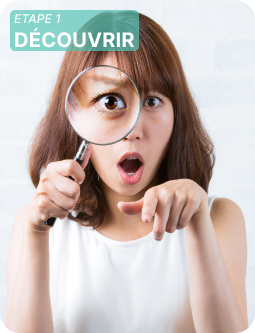
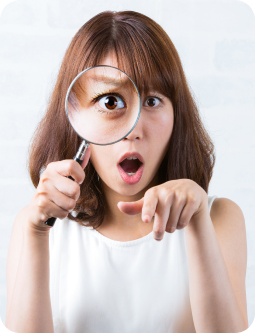
finish home page

Changed region(s): [[0.0275, 0.03, 0.549, 0.1502]]

diff --git a/resources/css/app.css b/resources/css/app.css
@@ -7,7 +7,14 @@
 }
 
 section {
-    @apply max-w-7xl mx-auto grid grid-cols-1 gap-4 py-10;
+    @apply max-w-7xl mx-auto grid grid-cols-1 gap-4 py-10 md:px-5 lg:px-10;
+}
+
+.bg_icon{
+    background-image: url('../../public/img/bg_icon_2.png') ;
+    background-repeat: no-repeat;
+    background-position: center;
+    background-size: cover;
 }
 
 /* ========================= TABLE ========================= */

diff --git a/resources/js/app.js b/resources/js/app.js
@@ -3,8 +3,15 @@ import './bootstrap';
 import Alpine from 'alpinejs';
 import focus from '@alpinejs/focus';
 import ToastComponent from '../../vendor/usernotnull/tall-toasts/resources/js/tall-toasts'
+import aos from 'aos';
+
 
 Alpine.data('ToastComponent', ToastComponent)
 window.Alpine = Alpine;
 Alpine.plugin(focus);
 Alpine.start();
+
+// init AOS
+aos.init({
+    once: true
+});

diff --git a/resources/views/index.blade.php b/resources/views/index.blade.php
@@ -1,76 +1,123 @@
 <x-app-layout>
     <section>
-        <div>
-            <img src="/img/home_img_1.png" alt="" class="w-4/5 mx-auto">
-            <div class="bg-white p-4 rounded-xl w-3/5 mx-auto">
-                <h1 class="text-lg lg:text-4xl font-medium mb-2">“Mon Grand Frère t’accompagne pour : trouver un <span class="text-[#57C5B6] font-bold">stage</span>, une <span class="text-[#57C5B6] font-bold">alternance</span> ou alors ton <span class="text-[#57C5B6] font-bold">métier de rêve</span> !”</h1>
+        <div data-aos="zoom-in-up" class="md:max-w-lg md:mx-auto lg:grid lg:grid-cols-2 lg:max-w-4xl">
+            <img src="/img/home_img_1.png" alt="" class="w-4/5 mx-auto lg:w-full">
+            <div class="bg-white p-4 rounded-xl w-4/5 mx-auto lg:h-min lg:my-auto">
+                <h1 class="text-lg lg:text-3xl font-medium mb-2">“Mon Grand Frère t’accompagne pour : trouver un <span class="text-[#57C5B6] font-bold">stage</span>, une <span class="text-[#57C5B6] font-bold">alternance</span> ou alors ton <span class="text-[#57C5B6] font-bold">métier de rêve</span> !”</h1>
                 <i class="flex justify-end text-xs">Hugo et Kévin CEO MonGrandFrère</i>
             </div>
         </div>
 
-        <div class="grid grid-cols-3 gap-4">
-            <div class="bg-white p-3 rounded-xl">
-                <svg width="24" height="25" viewBox="0 0 24 25" fill="none" xmlns="http://www.w3.org/2000/svg">
+        <div class="grid grid-cols-3 gap-4 md:max-w-lg md:mx-auto lg:mt-8">
+            <div class="bg-white p-3 rounded-xl text-center" data-aos="zoom-in-up" data-aos-delay="100">
+                <svg width="40" height="40" viewBox="0 0 24 25" fill="none" xmlns="http://www.w3.org/2000/svg" class="mx-auto mb-3">
                     <path d="M7.80001 15.1C7.64088 15.1 7.48827 15.0368 7.37575 14.9243C7.26323 14.8118 7.20001 14.6591 7.20001 14.5C7.20001 14.3409 7.26323 14.1883 7.37575 14.0757C7.48827 13.9632 7.64088 13.9 7.80001 13.9H16.2C16.3591 13.9 16.5118 13.9632 16.6243 14.0757C16.7368 14.1883 16.8 14.3409 16.8 14.5C16.8 14.6591 16.7368 14.8118 16.6243 14.9243C16.5118 15.0368 16.3591 15.1 16.2 15.1H7.80001ZM7.80001 18.1C7.64088 18.1 7.48827 18.0368 7.37575 17.9243C7.26323 17.8118 7.20001 17.6591 7.20001 17.5C7.20001 17.3409 7.26323 17.1883 7.37575 17.0757C7.48827 16.9632 7.64088 16.9 7.80001 16.9H16.2C16.3591 16.9 16.5118 16.9632 16.6243 17.0757C16.7368 17.1883 16.8 17.3409 16.8 17.5C16.8 17.6591 16.7368 17.8118 16.6243 17.9243C16.5118 18.0368 16.3591 18.1 16.2 18.1H7.80001Z" fill="#57C5B6"/>
                     <path fill-rule="evenodd" clip-rule="evenodd" d="M13.422 1.3H5.40001C4.92262 1.3 4.46478 1.48965 4.12721 1.82721C3.78965 2.16478 3.60001 2.62261 3.60001 3.1V21.1C3.60001 21.5774 3.78965 22.0352 4.12721 22.3728C4.46478 22.7104 4.92262 22.9 5.40001 22.9H18.6C19.0774 22.9 19.5352 22.7104 19.8728 22.3728C20.2104 22.0352 20.4 21.5774 20.4 21.1V8.7424C20.3999 8.29177 20.2307 7.85757 19.926 7.5256L14.7492 1.8832C14.5805 1.6993 14.3754 1.55248 14.1469 1.45208C13.9184 1.35169 13.6716 1.2999 13.422 1.3ZM4.80001 3.1C4.80001 2.94087 4.86322 2.78826 4.97574 2.67574C5.08826 2.56322 5.24088 2.5 5.40001 2.5H13.422C13.5053 2.49991 13.5876 2.51715 13.6639 2.55062C13.7401 2.58408 13.8085 2.63305 13.8648 2.6944L19.0416 8.3368C19.1433 8.4474 19.1999 8.59214 19.2 8.7424V21.1C19.2 21.2591 19.1368 21.4117 19.0243 21.5243C18.9117 21.6368 18.7591 21.7 18.6 21.7H5.40001C5.24088 21.7 5.08826 21.6368 4.97574 21.5243C4.86322 21.4117 4.80001 21.2591 4.80001 21.1V3.1Z" fill="#57C5B6"/>
                     <path d="M13.8 2.62001V8.26001H19.44" stroke="#57C5B6" stroke-linecap="round" stroke-linejoin="round"/>
                     <path d="M9.7608 7.4596C9.93216 7.46485 10.1028 7.43563 10.2627 7.37367C10.4225 7.31172 10.5683 7.21829 10.6914 7.09893C10.8145 6.97957 10.9123 6.83671 10.9791 6.67883C11.046 6.52094 11.0804 6.35124 11.0804 6.1798C11.0804 6.00836 11.046 5.83866 10.9791 5.68077C10.9123 5.52289 10.8145 5.38003 10.6914 5.26067C10.5683 5.14131 10.4225 5.04788 10.2627 4.98593C10.1028 4.92397 9.93216 4.89475 9.7608 4.9C9.42816 4.91019 9.11255 5.04949 8.88086 5.28838C8.64917 5.52728 8.51959 5.847 8.51959 6.1798C8.51959 6.5126 8.64917 6.83232 8.88086 7.07121C9.11255 7.31011 9.42816 7.44941 9.7608 7.4596Z" fill="#57C5B6"/>
                     <path fill-rule="evenodd" clip-rule="evenodd" d="M12.3192 10.2328C12.3192 8.87201 11.1732 7.88681 9.75961 7.88681C8.34601 7.88681 7.20001 8.87081 7.20001 10.2328V10.8736C7.20033 10.9867 7.24548 11.0951 7.32556 11.1749C7.40564 11.2548 7.51412 11.2996 7.62721 11.2996H11.8932C12.0061 11.2993 12.1143 11.2543 12.1941 11.1745C12.2739 11.0947 12.3189 10.9865 12.3192 10.8736V10.2328Z" fill="#57C5B6"/>
                 </svg>
-                <p>Aide à la construction d'un CV</p>
+                <p class="text-sm">Aide à la construction d'un CV</p>
             </div>
 
-            <div class="bg-white p-3 rounded-xl">
-                <svg width="24" height="25" viewBox="0 0 24 25" fill="none" xmlns="http://www.w3.org/2000/svg">
+            <div class="bg-white p-3 rounded-xl text-center" data-aos="zoom-in-up" data-aos-delay="200">
+                <svg width="40" height="40" viewBox="0 0 24 25" fill="none" xmlns="http://www.w3.org/2000/svg" class="mx-auto mb-3">
                     <path d="M2 22.1C2 19.9783 2.84285 17.9434 4.34315 16.4432C5.84344 14.9429 7.87827 14.1 10 14.1C12.1217 14.1 14.1566 14.9429 15.6569 16.4432C17.1571 17.9434 18 19.9783 18 22.1H16C16 20.5087 15.3679 18.9826 14.2426 17.8574C13.1174 16.7321 11.5913 16.1 10 16.1C8.4087 16.1 6.88258 16.7321 5.75736 17.8574C4.63214 18.9826 4 20.5087 4 22.1H2ZM10 13.1C6.685 13.1 4 10.415 4 7.10001C4 3.78501 6.685 1.10001 10 1.10001C13.315 1.10001 16 3.78501 16 7.10001C16 10.415 13.315 13.1 10 13.1ZM10 11.1C12.21 11.1 14 9.31001 14 7.10001C14 4.89001 12.21 3.10001 10 3.10001C7.79 3.10001 6 4.89001 6 7.10001C6 9.31001 7.79 11.1 10 11.1ZM18.284 14.803C19.6893 15.4359 20.882 16.4612 21.7186 17.7557C22.5552 19.0502 23.0002 20.5587 23 22.1H21C21.0002 20.944 20.6666 19.8125 20.0391 18.8416C19.4116 17.8707 18.5171 17.1017 17.463 16.627L18.284 14.803ZM17.596 3.51301C18.6035 3.9283 19.465 4.63354 20.071 5.53924C20.6771 6.44493 21.0004 7.51025 21 8.60001C21.0004 9.97234 20.4877 11.2952 19.5625 12.3088C18.6374 13.3224 17.3667 13.9535 16 14.078V12.065C16.7409 11.9589 17.4283 11.618 17.9613 11.0925C18.4943 10.5669 18.8447 9.88433 18.9612 9.14494C19.0776 8.40555 18.954 7.6483 18.6084 6.98436C18.2628 6.32042 17.7134 5.78475 17.041 5.45601L17.596 3.51301Z" fill="#57C5B6"/>
                 </svg>                
-                <p>Préparation pour un entretien</p>
+                <p class="text-sm">Préparation pour un entretien</p>
             </div>
 
-            <div class="bg-white p-3 rounded-xl">
-                <svg width="24" height="25" viewBox="0 0 24 25" fill="none" xmlns="http://www.w3.org/2000/svg">
+            <div class="bg-white p-3 rounded-xl text-center" data-aos="zoom-in-up" data-aos-delay="300">
+                <svg width="40" height="40" viewBox="0 0 24 25" fill="none" xmlns="http://www.w3.org/2000/svg" class="mx-auto mb-3">
                     <path d="M22 12.1C22 15.871 22 17.757 20.828 18.928C19.657 20.1 17.771 20.1 14 20.1H10C6.229 20.1 4.343 20.1 3.172 18.928C2 17.757 2 15.871 2 12.1C2 8.32901 2 6.44301 3.172 5.27201C4.343 4.10001 6.229 4.10001 10 4.10001H14C17.771 4.10001 19.657 4.10001 20.828 5.27201C21.482 5.92501 21.771 6.80001 21.898 8.10001" stroke="#57C5B6" stroke-width="1.5" stroke-linecap="round"/>
                     <path d="M18 8.10001L15.841 9.90001C14.005 11.43 13.086 12.195 12 12.195C11.35 12.195 10.761 11.921 10 11.375M6 8.10001L6.9 8.85001L7.8 9.60001" stroke="#57C5B6" stroke-width="1.5" stroke-linecap="round"/>
                 </svg>                
-                <p>Conception de sa lettre de motivation</p>
+                <p class="text-sm">Conception de sa lettre de motivation</p>
             </div>
         </div>
     </section>
 
-    <section class="lg:flex lg:gap-4">
-        <div class="relative lg:flex lg:gap-4 lg:shrink-0">
-            <img src="/img/home_img_2.png" alt="" class="w-7/12 lg:w-1/4">
-            <img src="/img/home_img_3.png" alt="" class="w-7/12 absolute right-0 -translate-y-1/2 lg:relative lg:w-1/4 lg:-translate-y-0">
+    <section class="relative">
+
+        <div data-aos="zoom-in-up" data-aos-delay="100">
+            <img src="img/bg_el_1.png" alt="" class="absolute right-0 top-0 md:hidden lg:block lg:-right-20 lg:-top-20 xl:-right-24">
         </div>
-        <div class="relative">
-            <img src="/img/home_img_4.png" alt="" class="w-7/12">
-            <img src="/img/home_img_5.png" alt="" class="w-7/12 absolute right-0 -translate-y-1/2">
+
+        <div class="md:grid md:grid-cols-2 md:gap-4">
+
+            <div class="relative md:grid md:grid-cols-2 md:gap-4" data-aos="zoom-in-up">
+                <div class="relative mb-4 w-7/12 shadow-lg rounded-3xl overflow-hidden md:w-full md:mb-0">
+                    <img src="/img/home_img_2.png" alt="" class="w-full h-full" data-aos="fade-up">
+                    <div class="absolute top-4 left-4 bg-[#57C5B6]/[.8] p-2 w-4/6 rounded-xl">
+                        <i class="text-white font-medium text-sm">ÉTAPE 1</i>
+                        <p class="text-white font-black text-lg">DÉCOUVRIR</p>
+                    </div>
+                </div>
+                
+                <div class="w-7/12 absolute right-0 -translate-y-1/2 shadow-lg rounded-3xl overflow-hidden md:relative md:-translate-y-0 md:w-full">
+                    <img src="/img/home_img_3.png" alt="" class="w-full h-full lg:relative lg:-translate-y-0">
+                    <div class="absolute top-4 left-4 bg-[#57C5B6]/[.8] p-2 w-4/6 rounded-xl" data-aos="fade-up">
+                        <i class="text-white font-medium text-sm">ÉTAPE 2</i>
+                        <p class="text-white font-black text-lg">CHOISIR</p>
+                    </div>
+                </div>
+            </div>
+    
+            <div class="relative md:grid md:grid-cols-2 md:gap-4" data-aos="zoom-in-up">
+                <div class="relative mb-4 w-7/12 shadow-lg rounded-3xl overflow-hidden md:w-full md:mb-0">
+                    <img src="/img/home_img_4.png" alt="" class="w-full h-full">
+                    <div class="absolute top-4 left-4 bg-[#57C5B6]/[.8] p-2 w-4/6 rounded-xl" data-aos="fade-up">
+                        <i class="text-white font-medium text-sm">ÉTAPE 3</i>
+                        <p class="text-white font-black text-lg">APPRENDRE</p>
+                    </div>
+                </div>
+
+                <div class="w-7/12 absolute right-0 -translate-y-1/2 shadow-lg rounded-3xl overflow-hidden md:relative md:-translate-y-0 md:w-full">
+                    <img src="/img/home_img_5.png" alt="" class="w-full h-full">
+                    <div class="absolute top-4 left-4 bg-[#57C5B6]/[.8] p-2 w-4/6 rounded-xl" data-aos="fade-up">
+                        <i class="text-white font-medium text-sm">ÉTAPE 4</i>
+                        <p class="text-white font-black text-lg">SIGNER</p>
+                    </div>
+                </div>
+            </div>
+
         </div>
+
+        <div data-aos="zoom-in-up" data-aos-delay="100">
+            <img src="img/bg_el_1.png" alt="" class="absolute bottom-0 left-0 rotate-180 hidden lg:block lg:-bottom-20 lg:-left-20 xl:-left-24">
+        </div>
+        
     </section>
 
-    <section>
-        <div class="z-10">
-            <img src="/img/home_img_6.png" alt="" class="w-4/6">
+    <section class="grid grid-cols-1 md:grid-cols-2 md:grid-rows-3">
+        <div class="z-10 md:row-span-3 md:flex md:flex-col md:justify-end" data-aos="zoom-in-up">
+            <img src="/img/home_img_6.png" alt="" class="w-4/6 md:max-w-xs md:mx-auto">
             <div class="bg-[#57C5B6] p-4 rounded-xl text-white">
                 <p class="font-medium"><span class="block text-4xl font-bold">6</span>ans d'expérience dans la formation</p>
             </div>
         </div>
-        <div class="bg-white p-4 rounded-xl text-[#57C5B6]">
+        <div class="bg-white p-4 rounded-xl text-[#57C5B6]" data-aos="zoom-in-up" data-aos-delay="100">
             <p class="font-medium"><span class="block text-4xl font-bold">+300</span>étudiants formés</p>
         </div>
-        <div class="bg-[#57C5B6] p-4 rounded-xl text-white">
+        <div class="bg-[#57C5B6] p-4 rounded-xl text-white" data-aos="zoom-in-up" data-aos-delay="200">
             <p class="font-medium"><span class="block text-4xl font-bold">90%</span>d'entre eux sont des étrangers</p>
         </div>
-        <div class="bg-white p-4 rounded-xl text-[#57C5B6]">
+        <div class="bg-white p-4 rounded-xl text-[#57C5B6]" data-aos="zoom-in-up" data-aos-delay="300">
             <p class="font-medium"><span class="block text-4xl font-bold">96%</span>de taux de réussite</p>
         </div>
     </section>
 
-    <section>
-        <div class="bg-[#57C5B6] rounded-xl overflow-hidden">
-            <div class="p-8">
+    <section class="md:max-w-2xl md:mx-auto relative">
+
+        <div data-aos="zoom-in-up" data-aos-delay="100">
+            <img src="img/bg_el_1.png" alt="" class="absolute right-0 top-0 md:hidden lg:block lg:-right-24 lg:-top-20">
+        </div>
+
+        <div class="relative bg-[#57C5B6] rounded-xl overflow-hidden" data-aos="zoom-in-up">
+            <div class="absolute w-full h-full -z-10 opacity-20 bg_icon"></div>
+            <div class="p-6">
                 <h2 class="text-center text-white font-bold mb-4 text-lg">Une dernière question ?</h2>
-                <p class="text-white text-center">Contactez-nous dès maintenant pour voir ensemble vos besoins et vous accompagner au mieux dans votre démarche.</p>
+                <p class="text-white text-center drop-shadow-sm">Contactez-nous dès maintenant pour voir ensemble vos besoins et vous accompagner au mieux dans votre démarche.</p>
                 <a href="" class="mt-4 block text-center">
                     <button class="py-2.5 px-4 bg-white rounded-xl">Contactez-nous !</button>
                 </a>

diff --git a/resources/views/navigation-menu.blade.php b/resources/views/navigation-menu.blade.php
@@ -1,4 +1,4 @@
-<nav x-data="{ open: false }" class="border-b border-gray-100 bg-[#FFF1DC] px-6 lg:px-20 xl:px-44 lg:py-5 sticky top-0 z-50">
+<nav x-data="{ open: false }" class="border-gray-100 bg-[#FFF1DC] px-6 lg:px-20 xl:px-44 lg:py-5 sticky top-0 z-50">
     <!-- Primary Navigation Menu -->
     <div class="mx-auto lg:px-8 lg:border lg:border-[#57C5B6] lg:rounded-3xl max-w-7xl">
         <div class="flex justify-between h-16">

diff --git a/resources/views/layouts/app.blade.php b/resources/views/layouts/app.blade.php
@@ -10,6 +10,8 @@
         <!-- Fonts -->
         <link rel="preconnect" href="https://fonts.bunny.net">
         <link href="https://fonts.bunny.net/css?family=figtree:400,500,600&display=swap" rel="stylesheet" />
+        <!-- CSS for aos -->
+        <link rel="stylesheet" href="https://unpkg.com/aos@next/dist/aos.css" />
 
         <!-- Scripts -->
         @vite(['resources/css/app.css', 'resources/js/app.js'])
